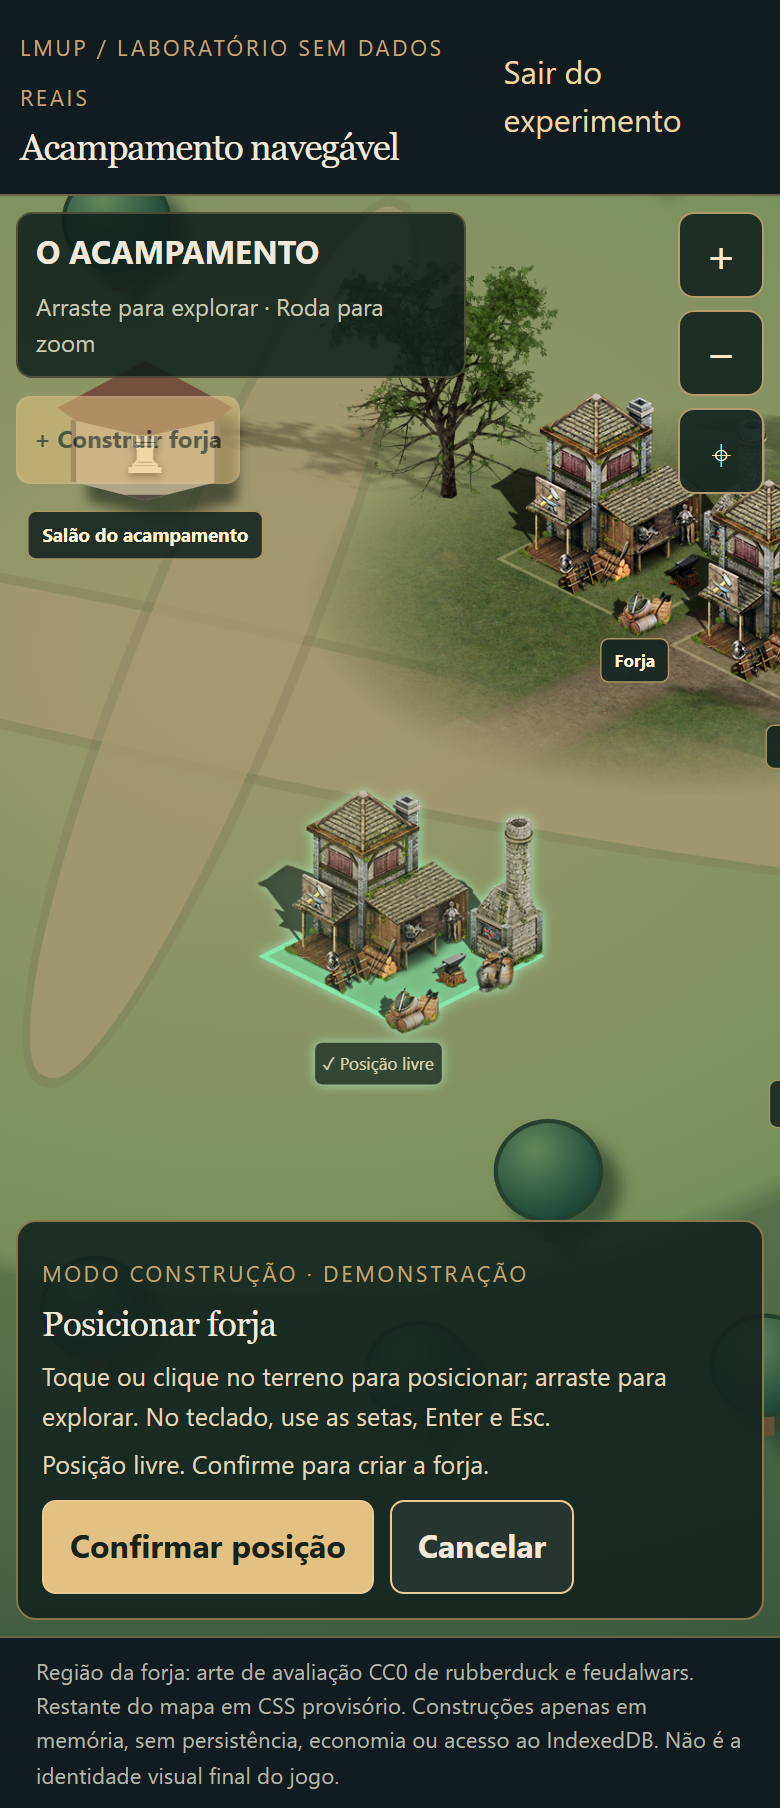
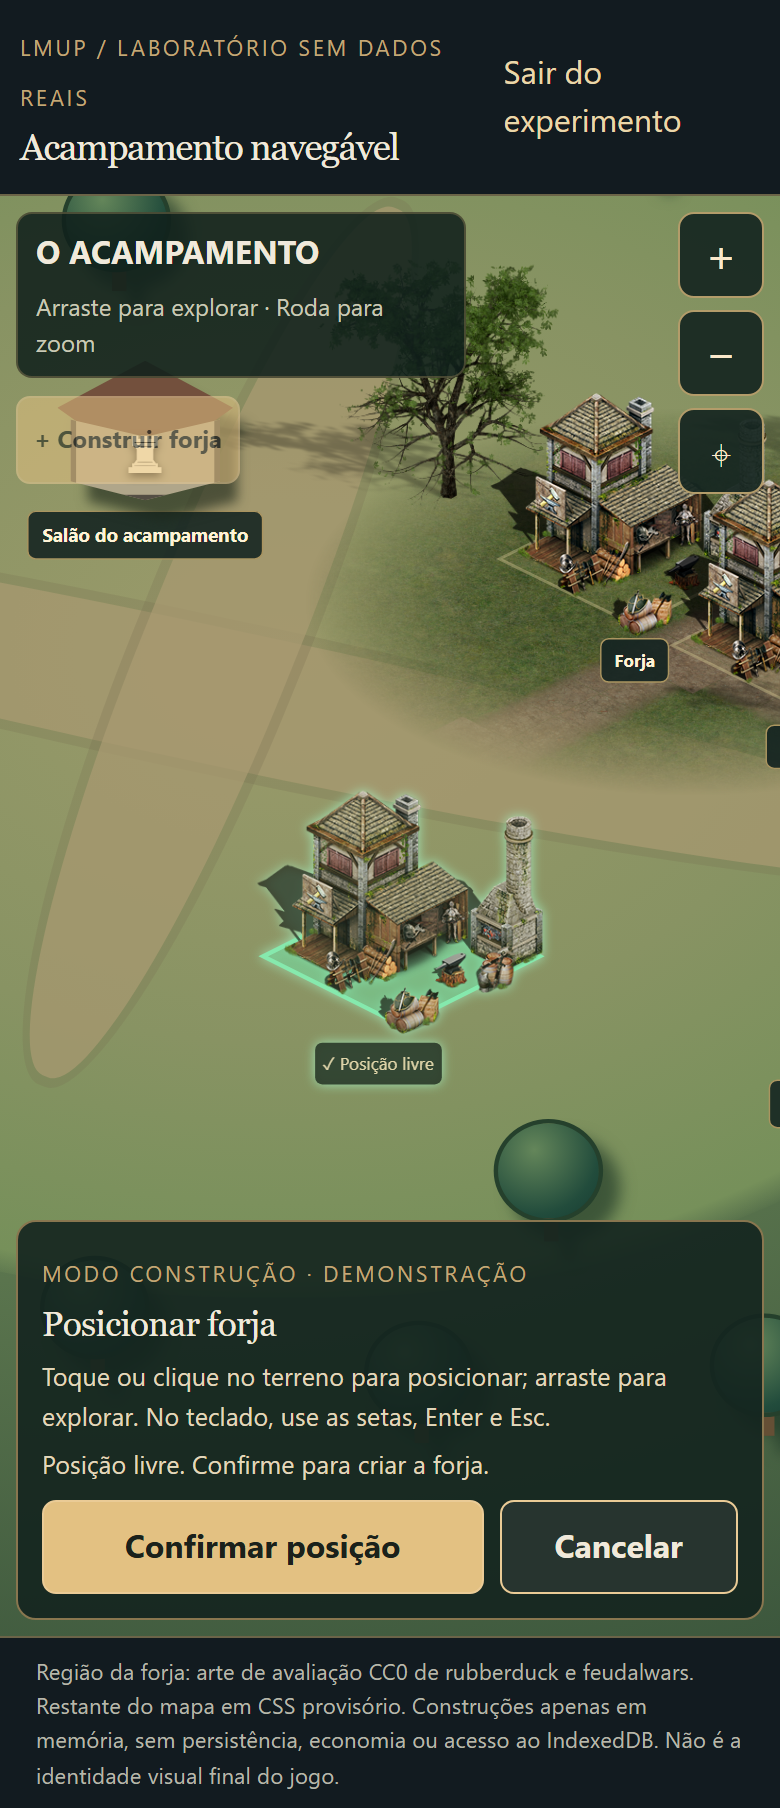
fix(lab): keep placement actions usable on narrow screens

Changed region(s): [[0.0923, 0.8053, 0.8615, 0.8982]]

diff --git a/tests/e2e/camp.spec.ts b/tests/e2e/camp.spec.ts
@@ -272,6 +272,13 @@ for (const width of [undefined, 320]) {
       );
     const place = async (x: number, y: number) => {
       const p = await point(x, y);
+      expect(
+        await page.evaluate(
+          (p) => !!document.elementFromPoint(p.x, p.y)?.closest('.viewport'),
+          p,
+        ),
+        'O ponto no terreno deve estar livre dos painéis',
+      ).toBe(true);
       if (mobile) await page.touchscreen.tap(p.x, p.y);
       else await page.mouse.click(p.x, p.y);
     };
@@ -279,6 +286,12 @@ for (const width of [undefined, 320]) {
     await activate(build);
     await expect(preview.locator('img')).toBeVisible();
     await expect(confirm).toBeEnabled();
+    const confirmBounds = (await confirm.boundingBox())!;
+    const cancelBounds = (await cancel.boundingBox())!;
+    expect(
+      Math.abs(confirmBounds.y - cancelBounds.y),
+      'Confirmar e cancelar devem compartilhar a mesma linha',
+    ).toBeLessThan(1);
     // Cancellation of a real active pointer must not reposition the ghost.
     const beforeCancel = await preview.getAttribute('style');
     const bounds = (await viewport.boundingBox())!;

diff --git a/src/routes/laboratorio/acampamento/+page.svelte b/src/routes/laboratorio/acampamento/+page.svelte
@@ -967,6 +967,14 @@
     flex-wrap: wrap;
     margin-top: 8px;
   }
+  .placement-actions button {
+    flex: 1;
+    min-width: 0;
+    padding-inline: 8px;
+  }
+  .placement-actions button:first-child {
+    flex: 2;
+  }
   .placement-actions button:nth-child(2) {
     background: #27342f;
     color: #f0e9db;

diff --git a/docs/ACAMPAMENTO-CONSTRUCAO-VALIDACAO.md b/docs/ACAMPAMENTO-CONSTRUCAO-VALIDACAO.md
@@ -27,6 +27,10 @@ URL efetiva: `http://127.0.0.1:5176/laboratorio/acampamento`. `scripts/preview-l
 
 Gargalos observados: geometria por centros exigia correções caso a caso; a função isolada usa o contrato visual já existente e aceita footprints de dimensões diferentes. Testes manuais separados do servidor real criariam retrabalho: o mesmo arquivo Playwright foi reutilizado com configuração temporária apontando à prévia e capturas opcionais. Limitação de espaço móvel resolvida só nos controles afetados. Não foram instaladas bibliotecas ou introduzidas abstrações de engine, economia ou persistência. Tempos informados são de execução dos testes, sem estimativa de duração total ou ganho de desempenho.
 
+## Falha identificada pela CI e correção
+
+A execução 41274006522 aprovou Node 22 e 216/218 testes E2E de Node 24. Os dois casos em 320 px falharam ao posicionar a segunda forja. Captura e trace da CI mostraram os botões de confirmação/cancelamento quebrando em duas linhas no Linux; o painel mais alto interceptava a coordenada do toque, mantendo a posição inválida anterior. As métricas de fonte do Windows não reproduziam essa quebra. Correção mínima: distribuição flexível 2:1 dos botões, largura mínima zero e padding horizontal menor; ambos ficam na mesma linha, com texto interno podendo quebrar. Regressão confere a mesma linha e que o ponto clicado pertence à viewport, sem relaxar colisão ou remover casos de 320 px. Resultado da nova CI na descrição do PR.
+
 ## Limitações
 
 Tudo é demonstração em memória: recarregar descarta as forjas construídas. Colisão valida edifícios e mapa, não árvores, água ou regras futuras de terreno. Bases dos dois edifícios CSS são aproximações explícitas, a substituir pelos metadados de seus futuros sprites. Recorte do telhado/sombra junto à borda não é impedido: o limite aplica-se ao footprint no solo. Toque é emulado, sem certificação de aparelho físico; pinça continua fora de escopo. Assets e qualidade visual continuam os de avaliação. PR #43 deve permanecer em rascunho e sem merge até aprovação visual e funcional.
